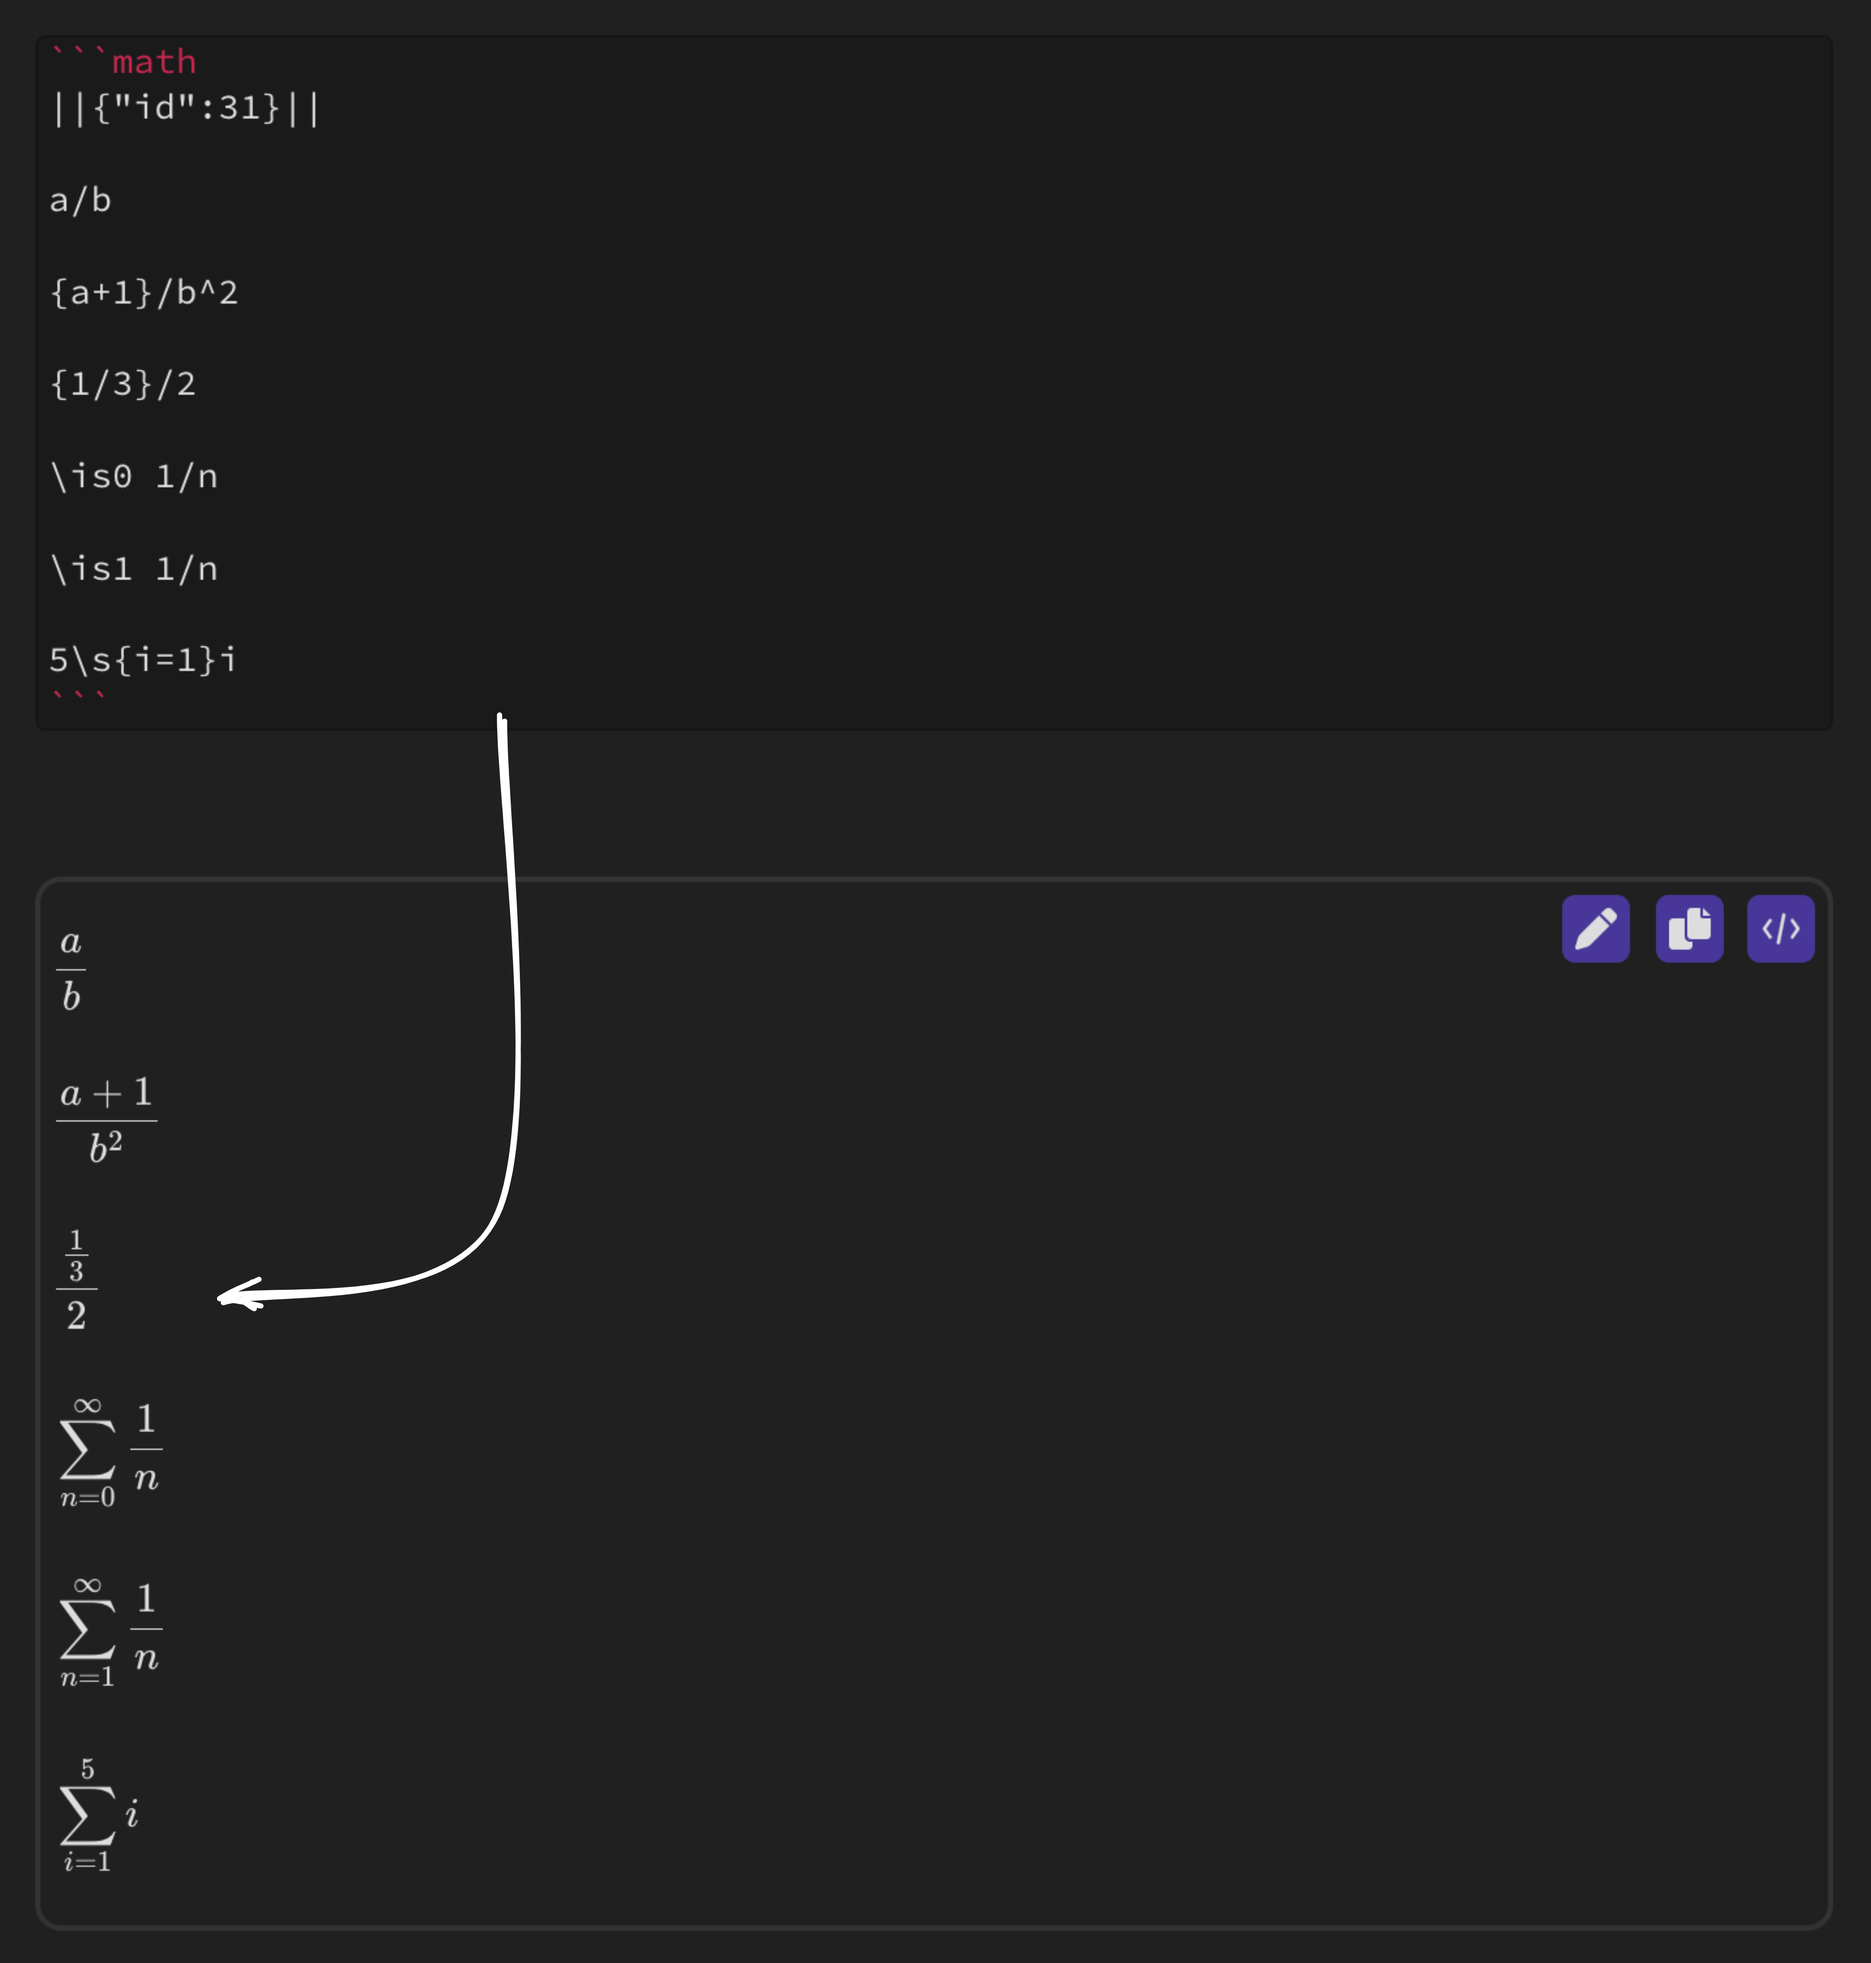
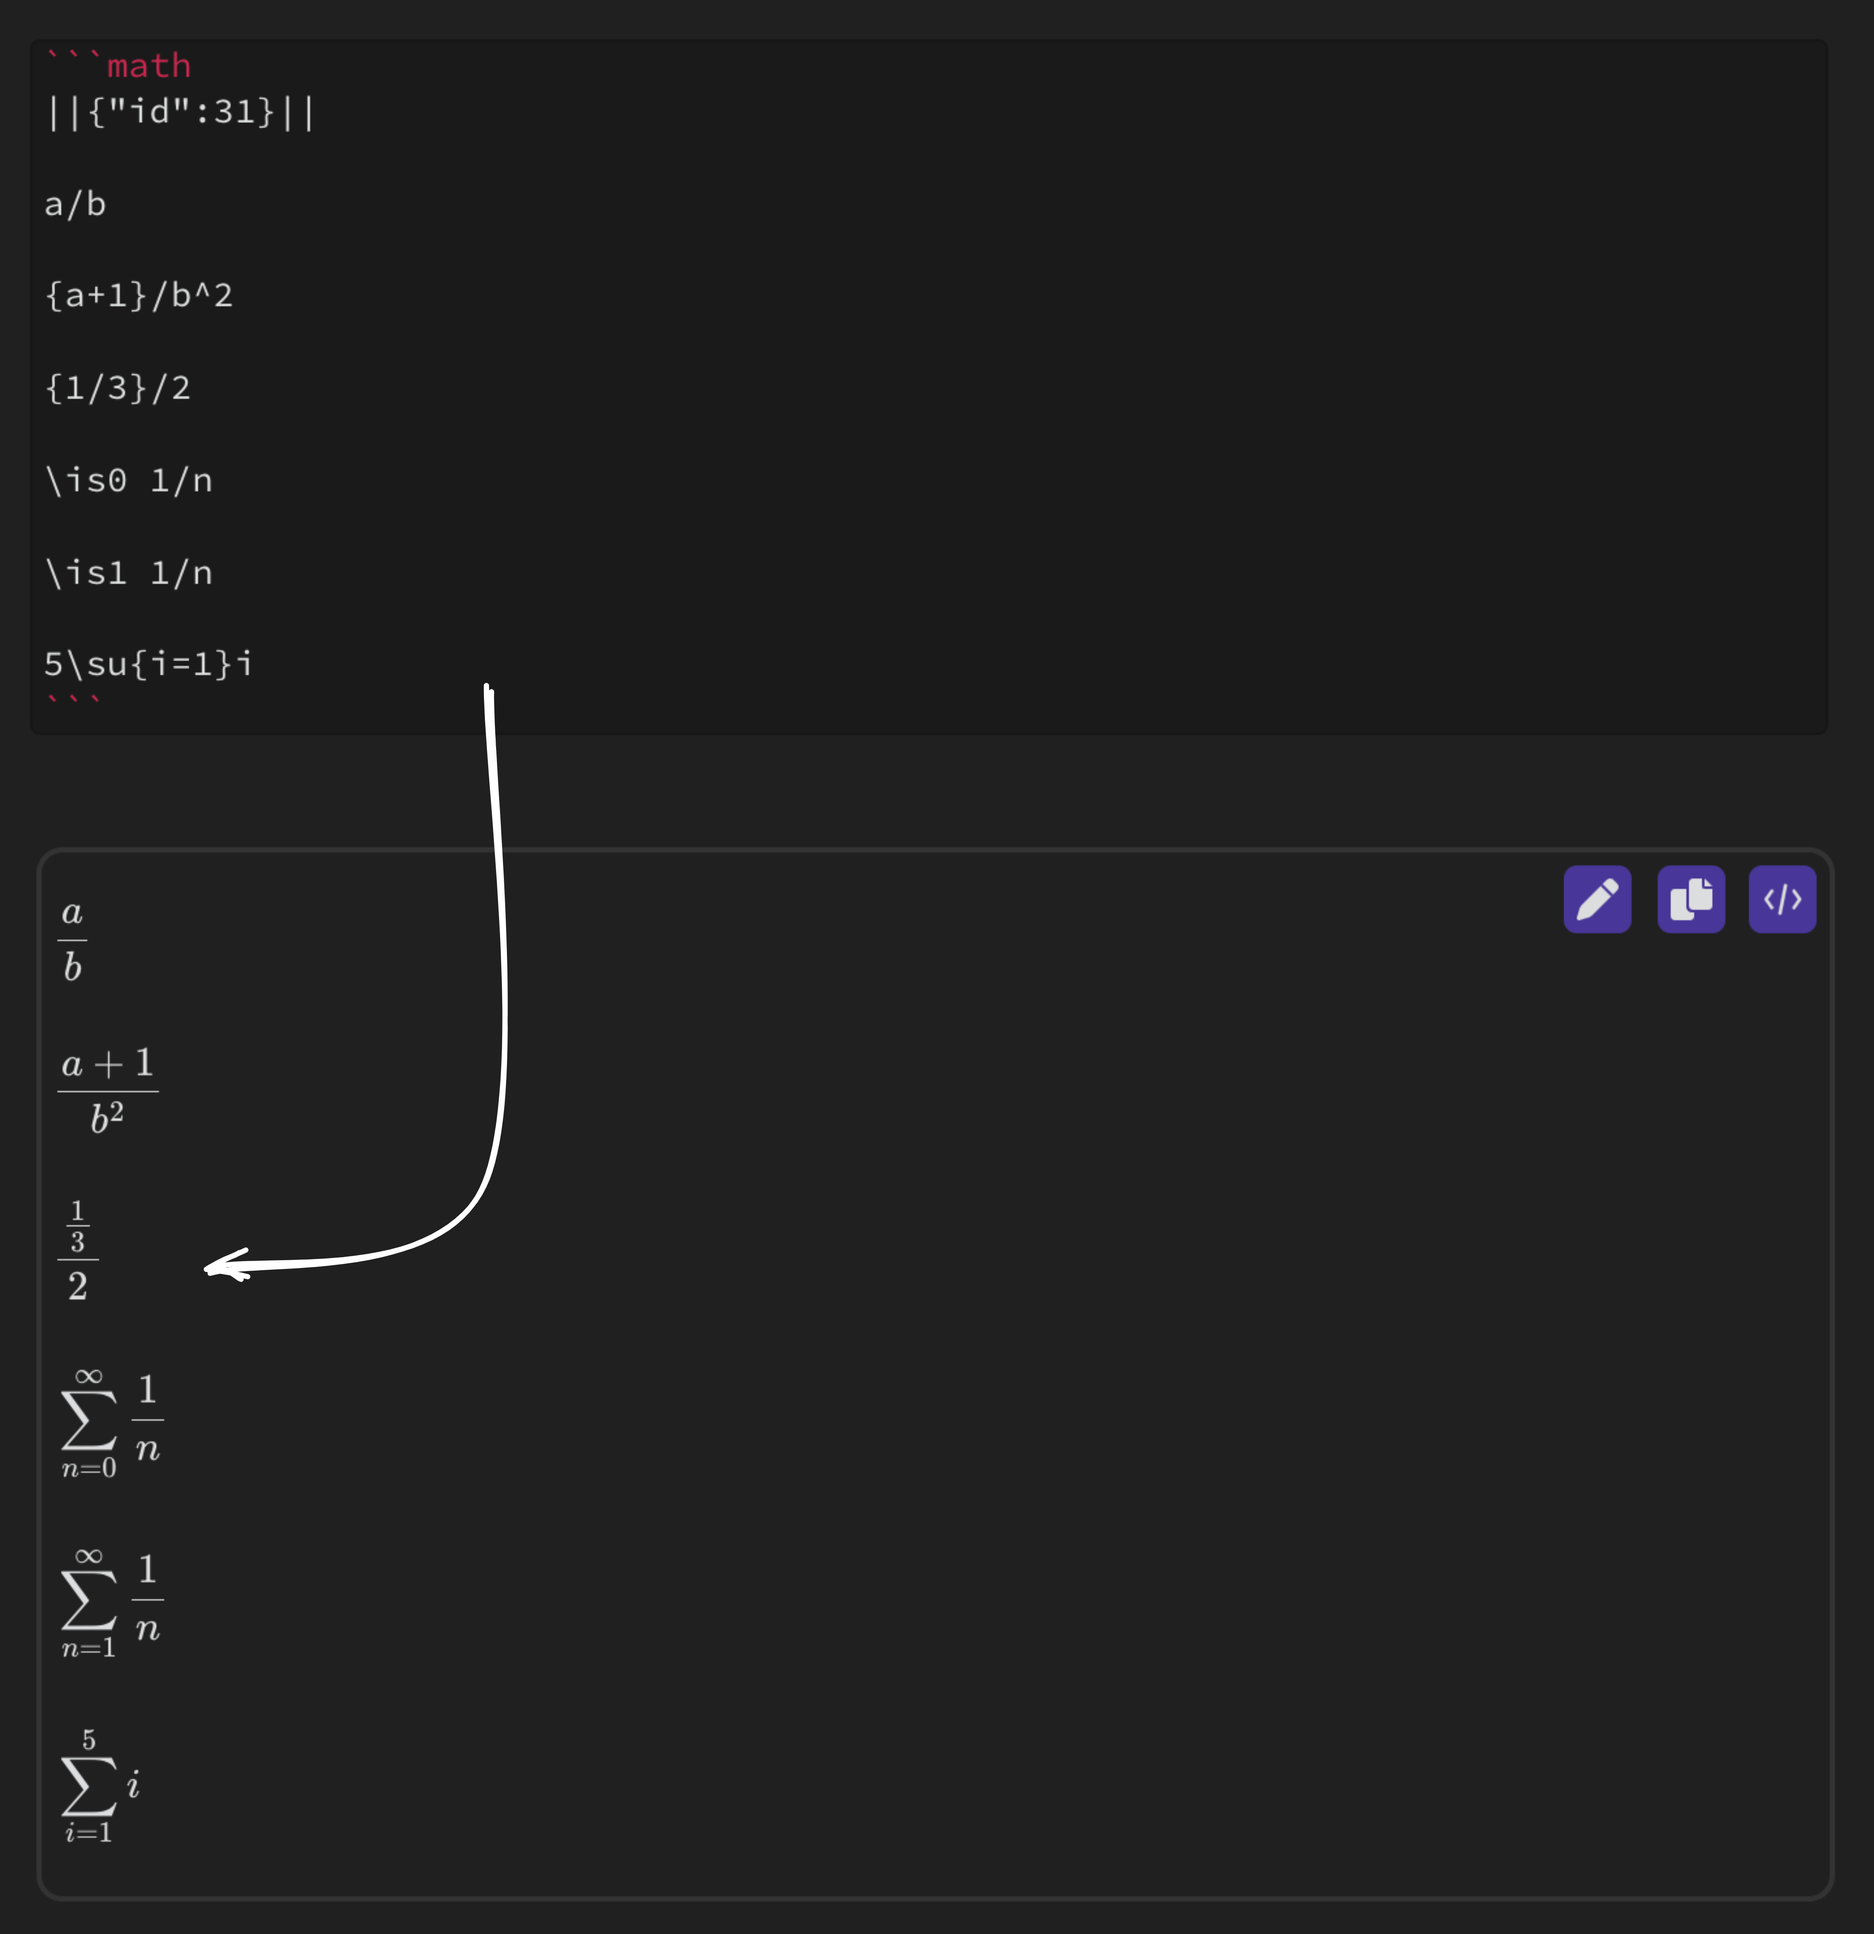
fix: changed sum shortcut to \su to avoid clashing with \sqrt

diff --git a/parser.ts b/parser.ts
@@ -93,7 +93,7 @@ export const formatEquation = (str: string) => {
       format:(s1: string,s2: string)=>{return `\\lim_{${s1}\\to${s2}}`}
     },
     {
-      op:"\\s",
+      op:"\\su",
       format:(s1: string,s2: string)=>{return `\\sum\\limits_{${s2}}^{${s1}}`}
     },
     {
